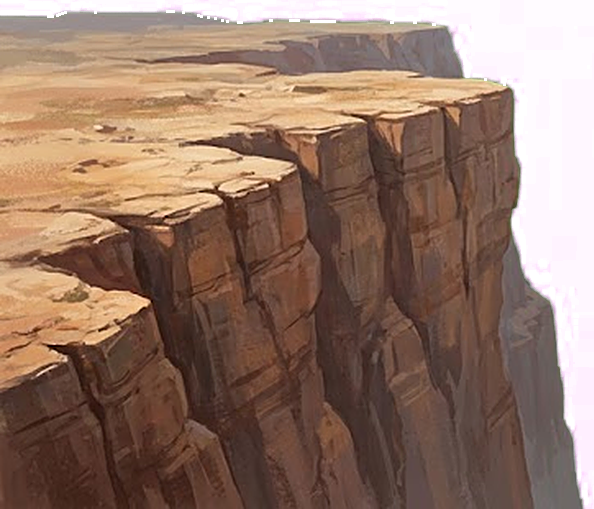
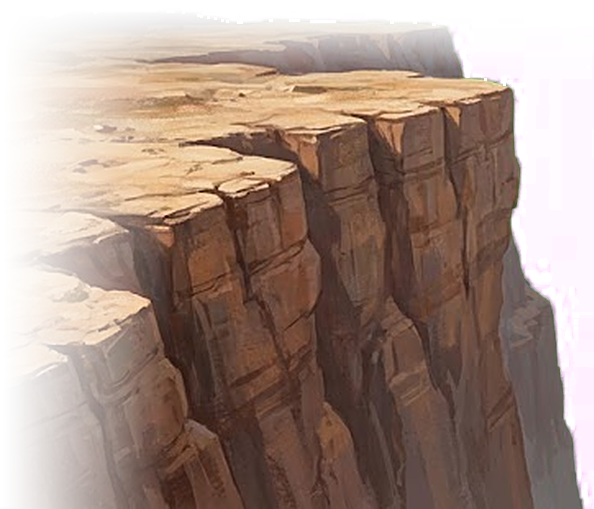
The gorge's cliffs melt into the road: each cliff's outer end and its flat ledge's top fade out over the floor, and the dark down the gorge is drawn 70px wider each side, its ends under the cliffs (JR.CLIFF.PAD; region.js h.pad)
Claude-Session: https://claude.ai/code/session_018JCxWJ972csv1aoHy7ivxa

Changed region(s): [[0.0, 0.0, 0.7879, 1.0]]

diff --git a/game/jerusalem.js b/game/jerusalem.js
@@ -12,7 +12,7 @@ const JR = {
   WALL_Y: 236,                 // (px above the ground line: where the Jebusites stand on the wall's battlements)
   GORGE: [24, 22],
   WALL: { AT: 20, BOT: 30, ON: 16 },   // (Glen's wall: its left end's column, its bottom below the ground line (px), how far down from its top edge the Jebusites stand)
-  CLIFF: { K: 0.7, LIP_L: 520, LIP_R: 60, TOP: 56 },   // (his two cliffs: their scale, where each one's lip is in its picture (px), how far down the top is the ground)
+  CLIFF: { K: 0.7, LIP_L: 520, LIP_R: 60, TOP: 56, PAD: 70 },   // (his two cliffs: their scale, where each one's lip is in its picture (px), how far down the top is the ground)
   SHAFT_ART: { far: "w8/jerusalem/shaft/far.jpg", pillar: "w8/jerusalem/shaft/pillar.png", near: "w8/jerusalem/shaft/near.png" },
   SHAFT: { PILLAR_K: 0.8, PILLAR_IN: 90, DIM: 0.22 },   // (the pillars' scale, how far in from the room's sides; the cave dimmed so the ledges stand out)             // (the gorge: its first column, how wide; the hidden bridge spans all of it)
   SLAB_H: 26,                  // (how thick the bridge stones are drawn, once the sand has shown them)
@@ -83,7 +83,7 @@ function jrBuild(R) {
   c = R("gorge");
   { const rm = "gorge", [g0, gw] = JR.GORGE;
     ground(c, c + 79);
-    rHole(rm, c + g0, gw);
+    rHole(rm, c + g0, gw).pad = JR.CLIFF.PAD;   // (his dark drawn wider, its ends under the cliffs: no hard stop)
     region.props = region.props.filter(p => !(p.room === rm && /^p_(left|right)$/.test(p.n)));   // (Glen 11-26: his cliffs are its edges, not the pit kit)
     jr.g0 = c + g0; jr.g1 = c + g0 + gw - 1;
     if (jrHas("jr_leap")) for (let k = jr.g0; k <= jr.g1; k++) jrStone(k, true);   // (crossed before: the sand still shows it)

diff --git a/tools/tests/jrcliff.js b/tools/tests/jrcliff.js
@@ -1,0 +1,14 @@
+// (11-27) the gorge's cliffs faded into the road, the dark wider under them: from the left lip, the middle, the right lip
+startSetup = () => {}; setup.active = false; helpT = 0;
+const snap = { keys: [], n: 2, snap: true };
+const hush = { n: 1, fn() { region.script = []; dialog.t = 0; hb.cine = null; region.wait = 0; toastTime = 0; } };
+const put = x => ({ n: 1, fn() { david.x = x(); david.y = GR * T; david.vy = 0; snapCamera(); toastTime = 0; } });
+testRun([
+  { n: 1, fn() { region.save.taken = region.save.taken.filter(k => !/^(jr|hb)_/.test(k)); ["hb_lament", "hb_ask", "hb_judah", "hb_pool", "hb_chase", "hb_grave", "hb_feasted", "hb_end", "jr_taunt"].forEach(k => regionAdd("taken", k)); } },
+  { n: 1, fn() { const r = roomById("gorge"); regionGo((r.c0 + 10) * T, 1, () => { david.y = GR * T; snapCamera(); }); } }, { keys: [], n: 60 }, hush,
+  { n: 1, fn() { for (let k = jr.g0; k <= jr.g1; k++) platAt(k, GR * T, 1); } },
+  put(() => (jr.g0 - 3) * T), { keys: [], n: 4 }, hush, snap,
+  put(() => (jr.g0 + jr.g1) / 2 * T), { keys: [], n: 4 }, hush, snap,
+  put(() => (jr.g1 + 4) * T), { keys: [], n: 4 }, hush, snap,
+  { n: 1, fn() { for (let k = jr.g0; k <= jr.g1; k++) oneway[GR][k] = false; region.save.taken = region.save.taken.filter(k => !/^(jr|hb)_/.test(k)); regionWrite(); } },
+]);

diff --git a/game/region.js b/game/region.js
@@ -1415,7 +1415,8 @@ function drawPitPic(im, h, x) {
     g.drawImage(im, 0, 0); g.globalCompositeOperation = "destination-in"; const f = g.createLinearGradient(0, 0, 0, PIT_FADE);
     f.addColorStop(0, "rgba(0,0,0,0)"); f.addColorStop(1, "rgba(0,0,0,1)"); g.fillStyle = f; g.fillRect(0, 0, c.width, c.height); pitFaded.set(im, c); }
   const src = im; im = pitFaded.get(src); im.naturalWidth = src.naturalWidth; im.naturalHeight = src.naturalHeight;
-  const w = h.x1 - h.x0, iw = im.naturalWidth, ih = im.naturalHeight, y = GR * T - 2;
+  const p = h.pad || 0; x -= p;   // (h.pad: px wider each side, its ends under a stage's own cliffs: the gorge, Glen 11-27)
+  const w = h.x1 - h.x0 + 2 * p, iw = im.naturalWidth, ih = im.naturalHeight, y = GR * T - 2;
   ctx.fillStyle = "#000"; ctx.fillRect(Math.round(x), y + ih - 1, w, Math.max(0, H + 400 - ih));
   if (w >= iw) { for (let o = 0; o < w; o += iw) ctx.drawImage(im, 0, 0, Math.min(iw, w - o), ih, Math.round(x + o), y, Math.min(iw, w - o), ih); return true; }
   const sx = w > iw * 0.3 ? (iw - w) / 2 : ((h.c * 157) % (iw - w));

diff --git a/tools/key_jerusalem.py b/tools/key_jerusalem.py
@@ -32,7 +32,15 @@ for room, lays in {"jvalley": ["far", "mid", "near"], "gorge": ["far", "near"], 
 d = out("gorge"); k = key(up(open_("gorge", "mid", " wide"))); a = np.asarray(k)
 cols = np.where(a[..., 3].max(0) > 40)[0]; gap = np.where(np.diff(cols) > 20)[0][0]; xl, xr = cols[gap] + 1, cols[gap + 1]
 for nm, box in (("cliff_l", (0, 0, xl + 4, k.height)), ("cliff_r", (xr - 4, 0, k.width, k.height))):
-    c, top = crop(k.crop(box)); c.save(os.path.join(d, nm + ".png"), optimize=True); print("gorge", nm, "top", top, "size", c.size)
+    c, top = crop(k.crop(box))
+    # (Glen 11-27: "fade the cliff edge to melt into the regular road") its outer end fades out over the floor, and its
+    #  top (the flat ledge behind, a hard block) fades in
+    a = np.asarray(c).astype(np.float32).copy(); w = a.shape[1]; S, F = 170, 70
+    ramp = np.clip(np.arange(w) / S, 0, 1) if nm == "cliff_l" else np.clip((w - 1 - np.arange(w)) / S, 0, 1)
+    a[..., 3] *= (ramp ** 1.3)[None, :]
+    a[:F, :, 3] *= (np.linspace(0, 1, F) ** 1.5)[:, None]
+    c = Image.fromarray(a.clip(0, 255).astype(np.uint8))
+    c.save(os.path.join(d, nm + ".png"), optimize=True); print("gorge", nm, "top", top, "size", c.size)
 # the watercourse
 d = out("shaft")
 up(open_("shaft", "far"), 1296 / 576).save(os.path.join(d, "far.jpg"), quality=86)
